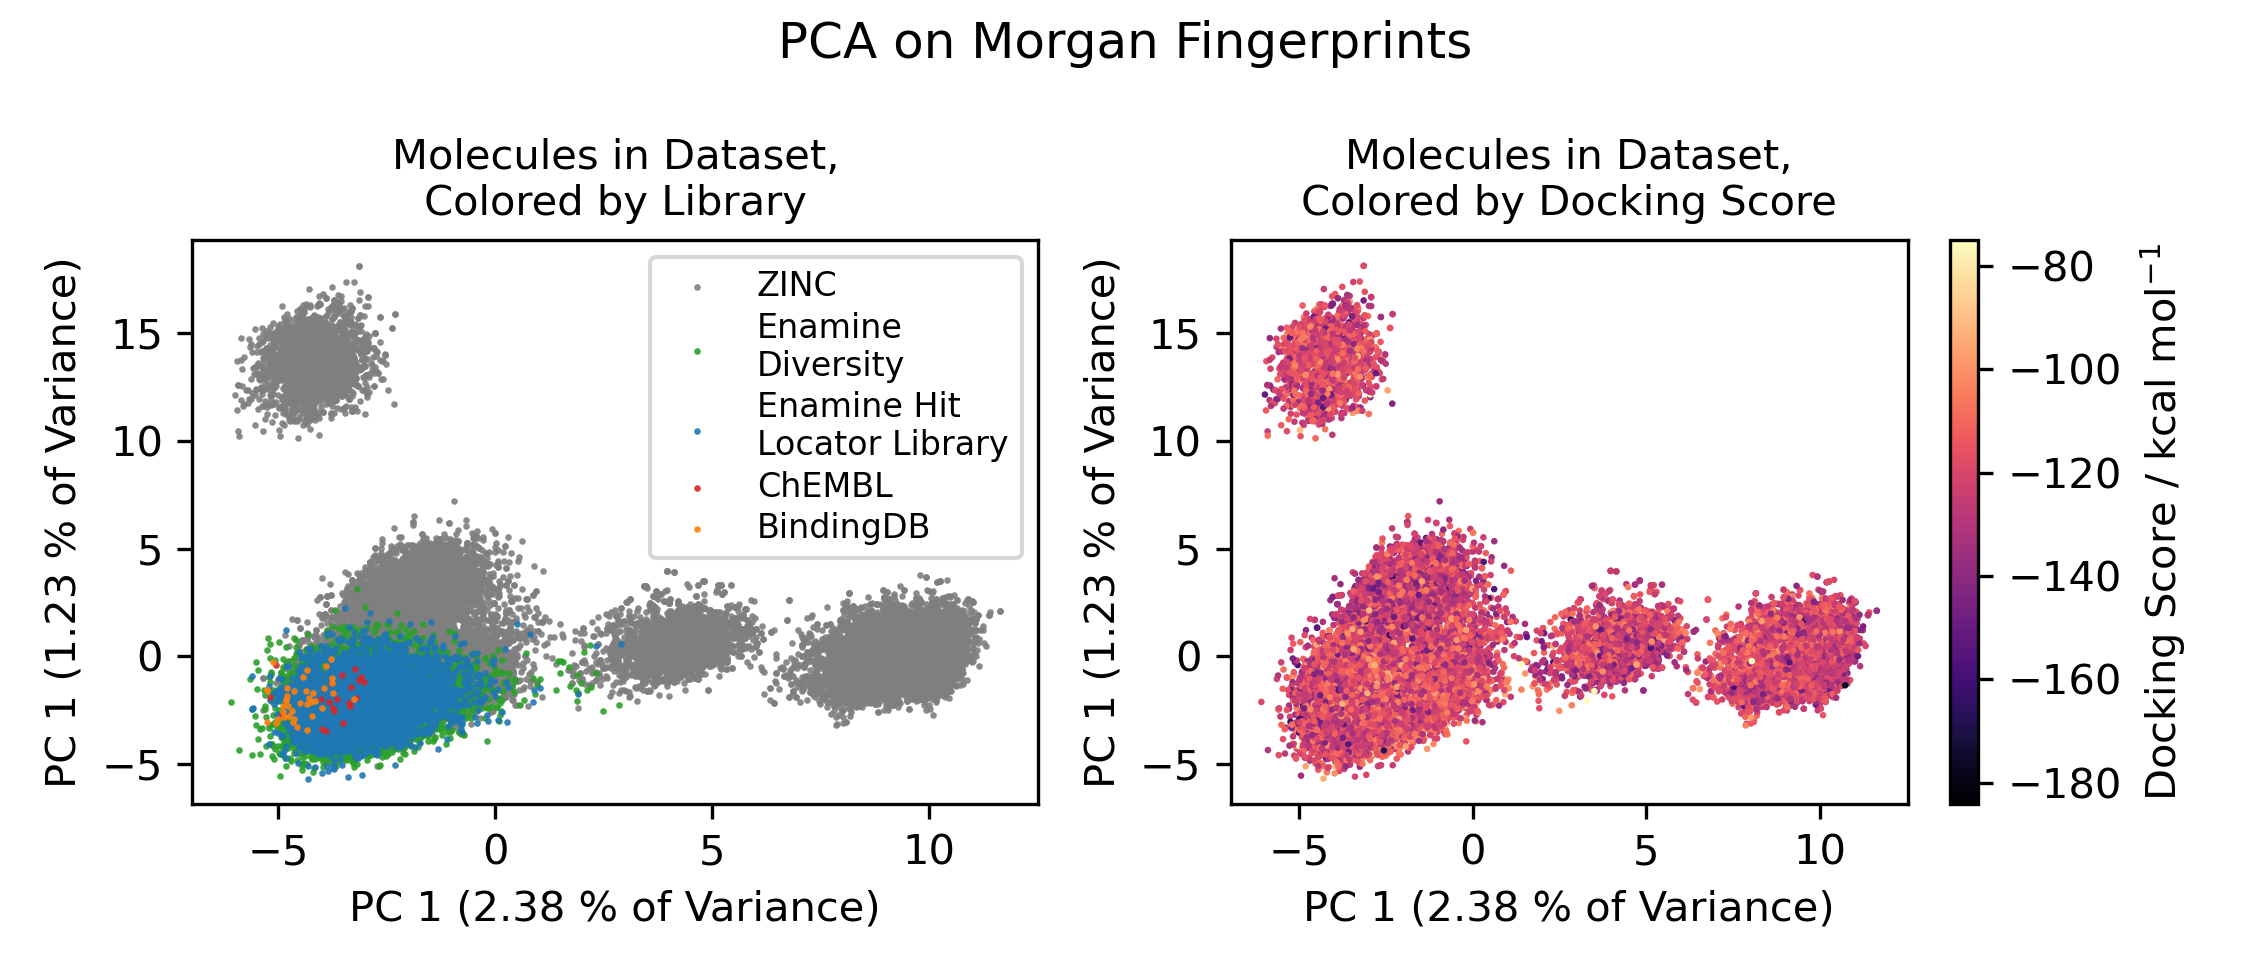
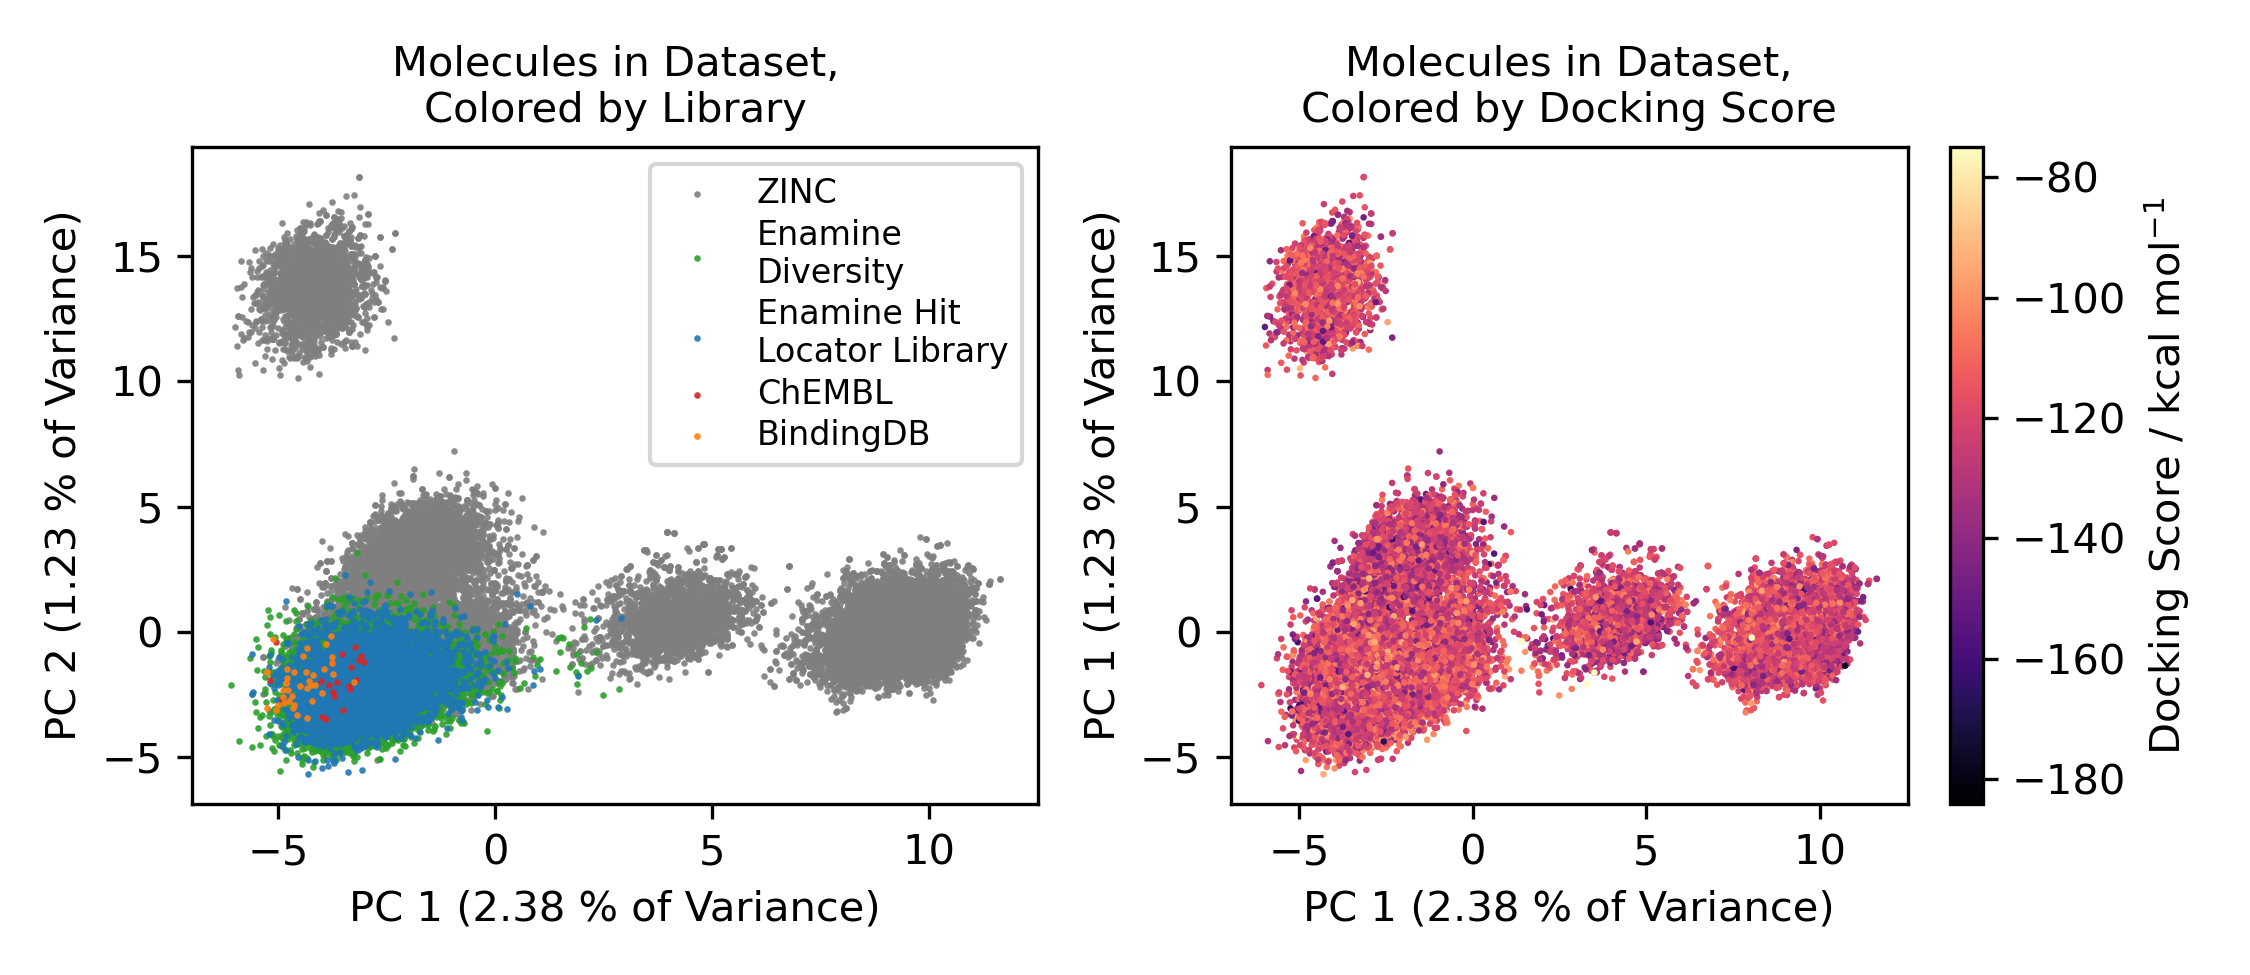
small edits to pca figures

diff --git a/analysis/chemical_space/all_analysis.py b/analysis/chemical_space/all_analysis.py
@@ -1,5 +1,7 @@
 import numpy as np
 import pandas as pd
+import matplotlib as mpl
+mpl.use('Agg')
 import matplotlib.pyplot as plt
 from sklearn.decomposition import PCA
 from rdkit import Chem
@@ -204,7 +206,7 @@ def plot_pca_all(pca_proj, pca_exp_var, df, title, outfile):
                        label=libraries[lib], color=colors[lib],
                        alpha=0.9, s=2.5, lw=0)
     axs[0].set_xlabel(f'PC 1 ({100*pc1_var:.2f} % of Variance)')
-    axs[0].set_ylabel(f'PC 1 ({100*pc2_var:.2f} % of Variance)')
+    axs[0].set_ylabel(f'PC 2 ({100*pc2_var:.2f} % of Variance)')
     axs[0].set_title('Molecules in Dataset,\nColored by Library', fontsize=10)
     axs[0].legend(fontsize=8, labelspacing=0.25)
 
@@ -218,7 +220,7 @@ def plot_pca_all(pca_proj, pca_exp_var, df, title, outfile):
     axs[1].set_title('Molecules in Dataset,\nColored by Docking Score', fontsize=10)
     fig.colorbar(im, label=r'Docking Score / kcal mol$^{-1}$')
 
-    fig.suptitle(title, fontsize=12)
+    # fig.suptitle(title, fontsize=12)
     plt.tight_layout()
     fig.savefig(outfile)
 
@@ -241,7 +243,6 @@ plot_best_binders(best_enamine, best_zinc, best_chembl, best_bindingdb)
 plot_distrs_of_properties(props_df, props, titles, outfile='distr_phys_prop_1d_hist.png')
 plot_distrs_of_properties_2d(df, props_df, props, titles, outfile='distr_phys_prop_2d_hist.png')
 
-'''
 # Calculate PCA on physical property vectors and plot results
 data_props_all = np.array(props_df.values[:,2:]).astype(np.float32)
 data_props = center_standardize(data_props_all)
@@ -257,4 +258,3 @@ fps_pca_proj, fps_pca_exp_var = calc_pca(100, data_fps)
 plot_pca_all(fps_pca_proj, fps_pca_exp_var, df,
              title='PCA on Morgan Fingerprints',
              outfile='pca_morgan_fps.png')
-'''
